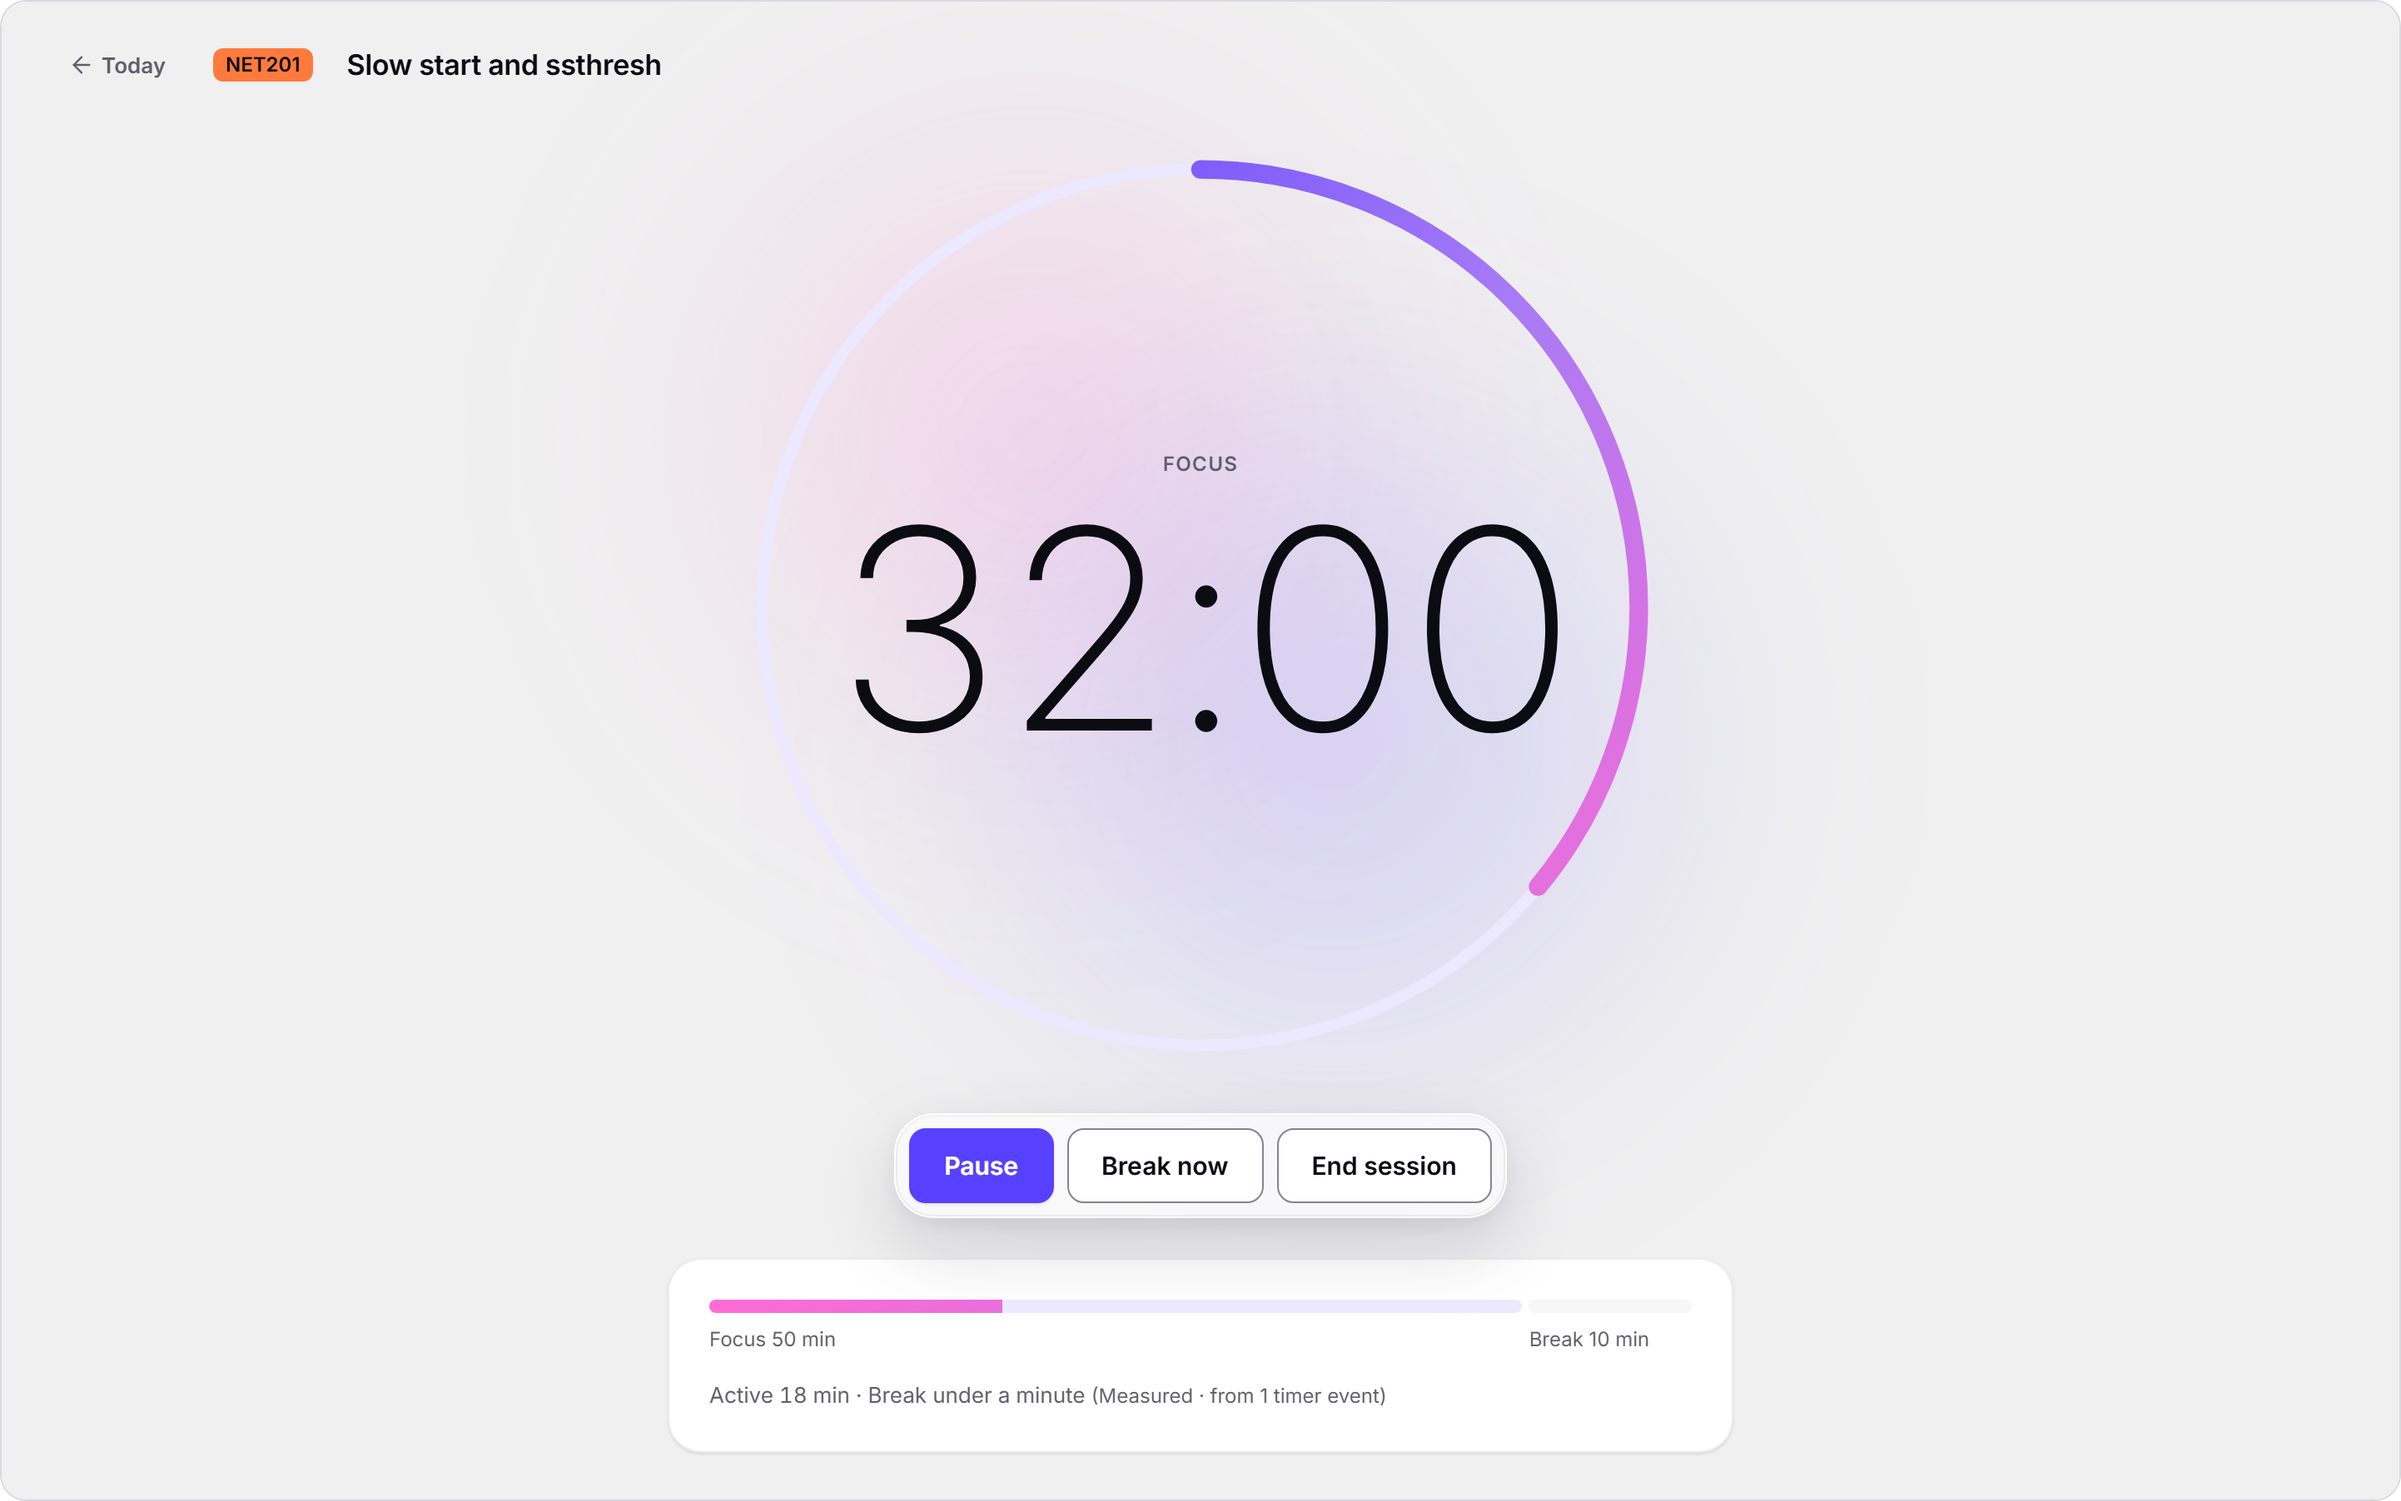
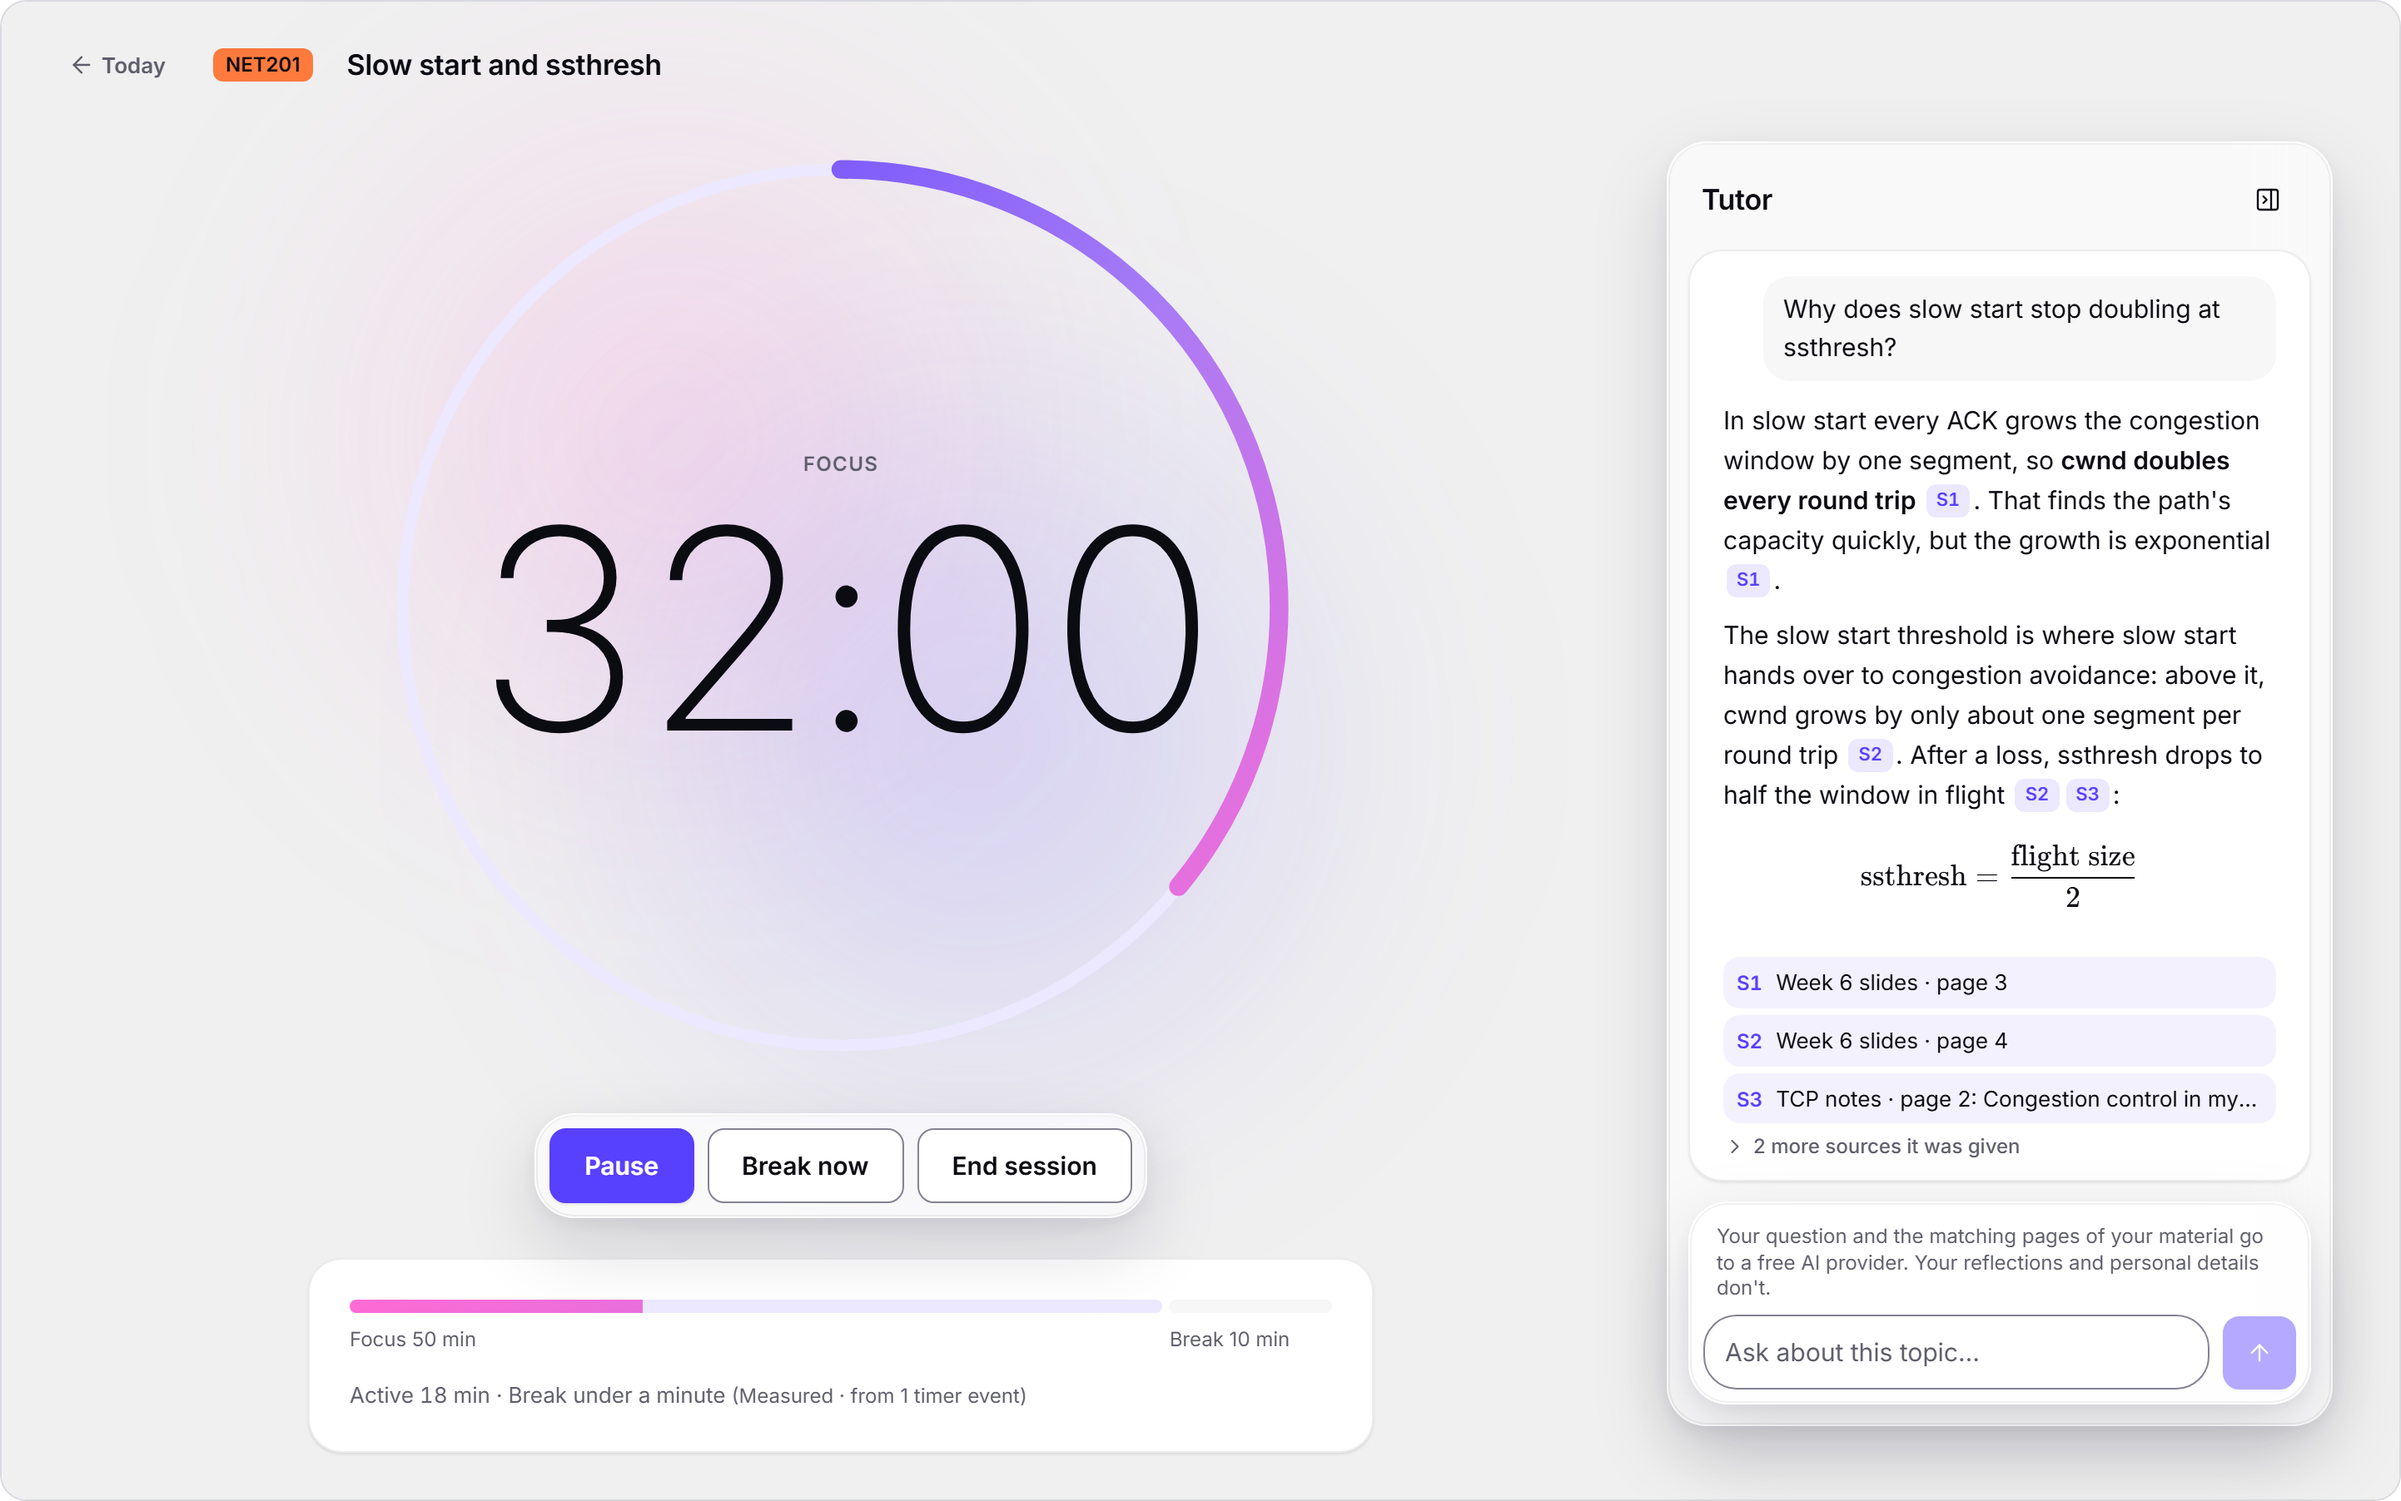
feat: the session screenshot shows the tutor panel (demo fixture conversation)
The demo seed opens the session the shot shows, with one stored tutor exchange written
for the demo and citing its own slides. The panel's grids no longer overflow, and a new
or restored turn shows from its question.

diff --git a/apps/web/src/features/tutor/TutorPanel.tsx b/apps/web/src/features/tutor/TutorPanel.tsx
@@ -24,17 +24,31 @@ export function TutorPanel({ tutor, autoFocus = false }: { tutor: Tutor; autoFoc
   const [noteSeen, setNoteSeen] = useState(privacyNoteSeen);
   const input = useRef<HTMLTextAreaElement>(null);
   const end = useRef<HTMLDivElement>(null);
+  const log = useRef<HTMLDivElement>(null);
   const last = tutor.turns.at(-1);
 
   useEffect(() => {
     if (autoFocus) input.current?.focus();
   }, [autoFocus]);
 
-  // Keep the newest text in view as it streams (instant: no smooth scrolling to animate).
-  const lastText = last?.answer?.text;
+  // Scrolling moves only the conversation box, never the page (instant: nothing animates).
+  // A new turn (or the restored ones) shows from its question; while an answer streams,
+  // the box follows its end only as far as needed.
+  const turnCount = tutor.turns.length;
   useEffect(() => {
-    end.current?.scrollIntoView?.({ block: "end" });
-  }, [tutor.turns.length, lastText]);
+    const box = log.current;
+    const turn = box?.querySelector("article:last-of-type");
+    if (!box || !turn) return;
+    box.scrollTop += turn.getBoundingClientRect().top - box.getBoundingClientRect().top - 16;
+  }, [turnCount]);
+  const lastText = last?.answer?.text;
+  const streaming = last?.answer?.status === "streaming";
+  useEffect(() => {
+    const box = log.current;
+    if (!streaming || !box || !end.current) return;
+    const below = end.current.getBoundingClientRect().bottom - box.getBoundingClientRect().bottom;
+    if (below > 0) box.scrollTop += below;
+  }, [lastText, streaming]);
 
   function send(question: string) {
     if (!question.trim() || tutor.busy || !tutor.ready) return;
@@ -63,9 +77,10 @@ export function TutorPanel({ tutor, autoFocus = false }: { tutor: Tutor; autoFoc
     <TooltipProvider>
       <div className="flex min-h-0 flex-1 flex-col">
         <div
+          ref={log}
           role="log"
           aria-label="Tutor conversation"
-          className="surface-card mx-3 grid min-h-0 flex-1 content-start gap-5 overflow-y-auto rounded-xl p-4 sm:p-5"
+          className="surface-card mx-3 grid min-h-0 flex-1 grid-cols-[minmax(0,1fr)] content-start gap-5 overflow-y-auto rounded-xl p-4 sm:p-5"
         >
           {tutor.restoring && (
             <p aria-busy="true" className="text-muted text-sm">
@@ -159,7 +174,10 @@ function TurnView({
   onRetry?: () => void;
 }) {
   return (
-    <article aria-label={`Question: ${turn.question}`} className="grid gap-3">
+    <article
+      aria-label={`Question: ${turn.question}`}
+      className="grid min-w-0 grid-cols-[minmax(0,1fr)] gap-3"
+    >
       <p className="bg-subtle ml-6 justify-self-end rounded-lg px-3 py-2 text-[15px] whitespace-pre-wrap">
         {turn.question}
       </p>

diff --git a/apps/web/src/features/tutor/TutorAnswer.tsx b/apps/web/src/features/tutor/TutorAnswer.tsx
@@ -29,7 +29,7 @@ export function TutorAnswer({
   const byline = answeredBy(answer.model, answer.firstTokenMs);
   return (
     <SourcesContext.Provider value={{ sources: answer.sources, open: onOpen }}>
-      <div className="grid gap-3">
+      <div className="grid min-w-0 grid-cols-[minmax(0,1fr)] gap-3">
         {answer.status === "waiting" && !answer.text && (
           <p className="text-muted flex items-center gap-2 text-sm">
             <span aria-hidden className="answer-caret" />
@@ -77,9 +77,9 @@ function SourceList({ sources, onOpen }: { sources: SourceView[]; onOpen: OpenSo
   const cited = sources.filter((s) => s.cited);
   const others = sources.filter((s) => !s.cited);
   return (
-    <div className="grid gap-1.5">
+    <div className="grid grid-cols-[minmax(0,1fr)] gap-1.5">
       {cited.length > 0 && (
-        <ul aria-label="Cited sources" className="grid gap-1">
+        <ul aria-label="Cited sources" className="grid grid-cols-[minmax(0,1fr)] gap-1">
           {cited.map((source) => (
             <SourceRow key={source.label} source={source} onOpen={onOpen} cited />
           ))}
@@ -96,7 +96,7 @@ function SourceList({ sources, onOpen }: { sources: SourceView[]; onOpen: OpenSo
               ? `${others.length} more ${others.length === 1 ? "source" : "sources"} it was given`
               : `${others.length} ${others.length === 1 ? "source" : "sources"} it was given (none cited)`}
           </summary>
-          <ul aria-label="Other sources" className="mt-1 grid gap-1">
+          <ul aria-label="Other sources" className="mt-1 grid grid-cols-[minmax(0,1fr)] gap-1">
             {others.map((source) => (
               <SourceRow key={source.label} source={source} onOpen={onOpen} />
             ))}
@@ -131,7 +131,7 @@ function SourceRow({
         <span className={cn("text-xs font-semibold tabular-nums", cited && "text-link")}>
           {source.label}
         </span>
-        <span className="min-w-0 truncate">{label}</span>
+        <span className="min-w-0 flex-1 truncate">{label}</span>
         {source.materialId === null && <span className="text-muted text-xs">(deleted)</span>}
       </button>
     </li>

diff --git a/apps/web/src/features/tutor/TutorDock.tsx b/apps/web/src/features/tutor/TutorDock.tsx
@@ -84,7 +84,7 @@ export function TutorDock({
   return (
     <aside
       aria-label="Tutor"
-      className="glass sticky top-4 flex h-[calc(100dvh-2rem)] max-h-[880px] flex-col self-start rounded-2xl"
+      className="glass sticky top-4 flex h-[calc(100dvh-8rem)] max-h-[880px] min-h-[480px] min-w-0 flex-col self-start rounded-2xl"
     >
       <div className="flex items-center gap-2 px-5 pt-4 pb-3">
         <h2 className="type-h3 min-w-0 flex-1">Tutor</h2>

diff --git a/apps/api/scripts/demo_seed.py b/apps/api/scripts/demo_seed.py
@@ -9,6 +9,10 @@ assessments, open tasks, a week of finished study sessions, and two slide decks 
 notes on TCP, which go through the real pipeline (extraction, chunking, local embeddings and
 indexing; no AI calls). The topic tree is inserted directly, with the pages each topic cites,
 and linked to the chunks the way the app does it (cited pages plus local similarity).
+
+It also opens a study session 18 minutes before ``now``, with one tutor exchange about it: a
+question and a stored answer written for the demo (no AI call), citing the demo's own pages,
+so the session screenshot shows the tutor panel.
 """
 
 import argparse
@@ -25,7 +29,16 @@ from app.core.config import get_settings
 from app.core.db import get_engine, get_sessionmaker
 from app.jobs.kinds import EXTRACT_TOPICS, LINK_TOPICS, MERGE_TOPICS
 from app.jobs.worker import run_once
-from app.models import Job, Material, TopicPage, User
+from app.models import (
+    Conversation,
+    Job,
+    Material,
+    MaterialPage,
+    Message,
+    MessageSource,
+    TopicPage,
+    User,
+)
 from app.schemas.academics import AssessmentCreate, ModuleCreate, TaskCreate, TopicCreate
 from app.schemas.materials import MaterialKind
 from app.schemas.sessions import EventBatch, ReflectionIn, SessionStart
@@ -154,6 +167,26 @@ NOTES = [
             "connection back to slow start.",
         ],
     ),
+]
+
+# The session screenshot's tutor exchange: original text about the demo's own slides.
+TUTOR_QUESTION = "Why does slow start stop doubling at ssthresh?"
+TUTOR_ANSWER = (
+    "In slow start every ACK grows the congestion window by one segment, so **cwnd doubles "
+    "every round trip** [S1]. That finds the path's capacity quickly, but the growth is "
+    "exponential【S1】.\n\n"
+    "The slow start threshold is where slow start hands over to congestion avoidance: above "
+    "it, cwnd grows by only about one segment per round trip [S2]. After a loss, ssthresh "
+    "drops to half the window in flight [S2][S3]:\n\n"
+    "$$\n\\text{ssthresh} = \\frac{\\text{flight size}}{2}\n$$"
+)
+# (label, material, page, cited): what the answer was given, in rank order.
+TUTOR_SOURCES = [
+    ("S1", "Week 6 slides", 3, True),
+    ("S2", "Week 6 slides", 4, True),
+    ("S3", "TCP notes", 2, True),
+    ("S4", "Week 6 slides", 5, False),
+    ("S5", "Week 6 slides", 6, False),
 ]
 
 # (topic, description, children: (name, description, cited pages as (material, page)))
@@ -425,9 +458,78 @@ async def seed(now: datetime) -> None:
             min_page_chars=settings.topic_link_min_page_chars,
         )
         await db.commit()
+
+        # The session the screenshot shows, 18 minutes in, and its tutor conversation.
+        study, _ = await sessions.start_session(
+            db,
+            SessionStart.model_validate(
+                {
+                    "module_id": module_id,
+                    "topic_id": topic_ids["Slow start and ssthresh"],
+                    # One second early: the screenshot's clock stands at now + 1 s.
+                    "start": {
+                        "id": uuid.uuid4(),
+                        "occurred_at": now - timedelta(minutes=18) + timedelta(seconds=1),
+                    },
+                }
+            ),
+            user_id=uid,
+        )
+        conversation = Conversation(
+            user_id=uid,
+            module_id=module_id,
+            study_session_id=study.id,
+            topic_id=topic_ids["Slow start and ssthresh"],
+        )
+        db.add(conversation)
+        await db.flush()
+        db.add(
+            Message(
+                user_id=uid,
+                conversation_id=conversation.id,
+                position=0,
+                role="user",
+                mode="answer",
+                text=TUTOR_QUESTION,
+                status="complete",
+            )
+        )
+        answer = Message(
+            user_id=uid,
+            conversation_id=conversation.id,
+            position=1,
+            role="assistant",
+            mode="answer",
+            text=TUTOR_ANSWER,
+            status="complete",
+            model="groq/openai/gpt-oss-120b",
+            first_token_ms=640,
+            total_ms=2100,
+        )
+        titles = await db.execute(
+            select(MaterialPage.material_id, MaterialPage.page_number, MaterialPage.title).where(
+                MaterialPage.user_id == uid
+            )
+        )
+        page_titles = {(material, page): title for material, page, title in titles}
+        answer.sources = [
+            MessageSource(
+                user_id=uid,
+                label=label,
+                rank=int(label[1:]),
+                material_id=materials[material],
+                material_title=material,
+                page_number=page,
+                page_title=page_titles.get((materials[material], page)),
+                cited=cited,
+            )
+            for label, material, page, cited in TUTOR_SOURCES
+        ]
+        db.add(answer)
+        await db.commit()
     print(
-        f"Demo seeded: NET201, {len(files)} materials ({ran} jobs), {len(week)} sessions, "
-        f"{len(topic_ids)} topics, {links} chunk links."
+        f"Demo seeded: NET201, {len(files)} materials ({ran} jobs), {len(week)} sessions "
+        f"and one open, {len(topic_ids)} topics, {links} chunk links, one tutor exchange."
     )
     await get_engine().dispose()
 
